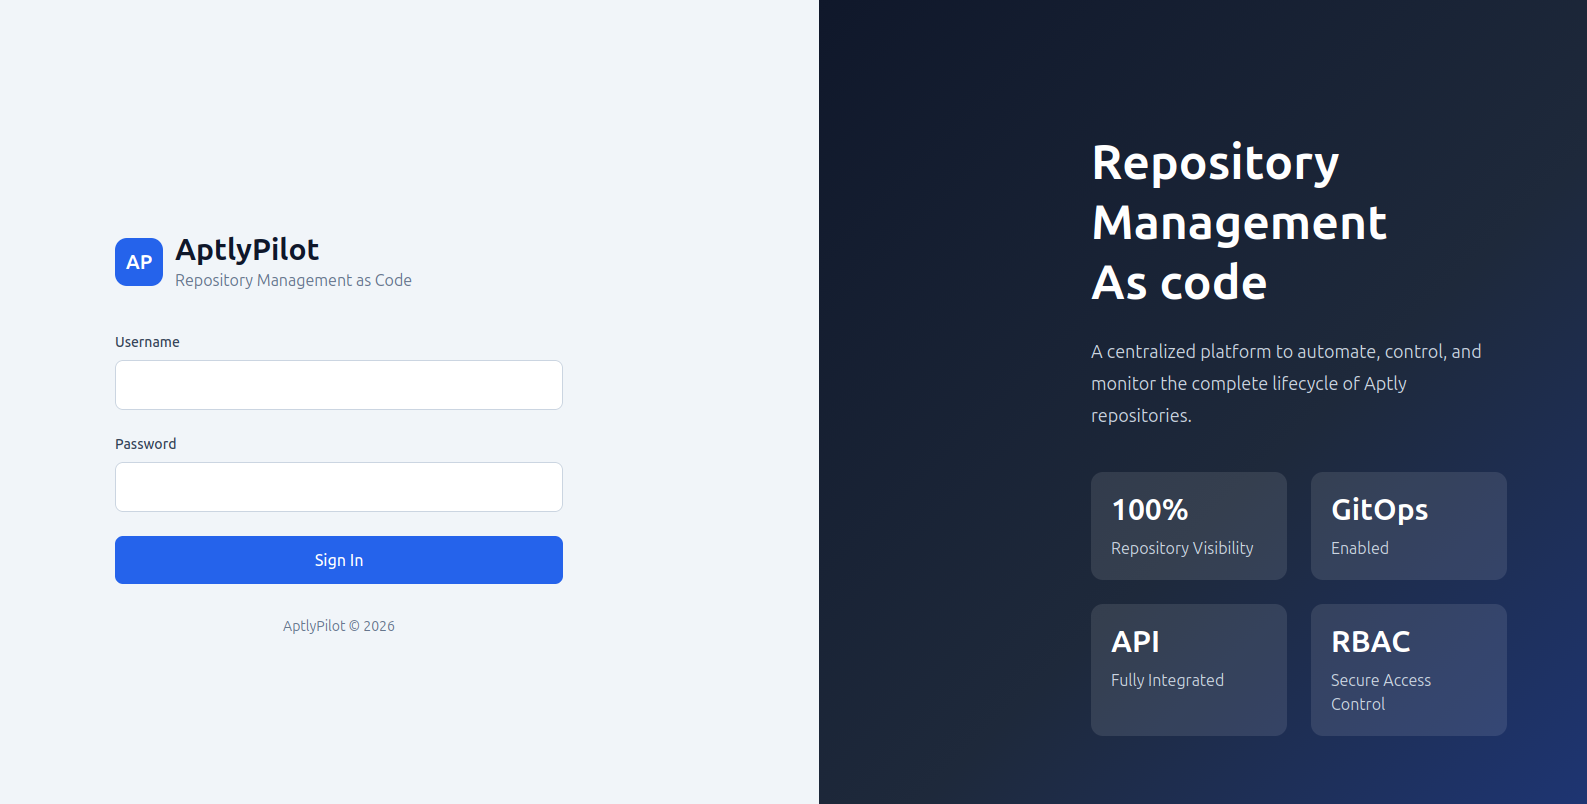
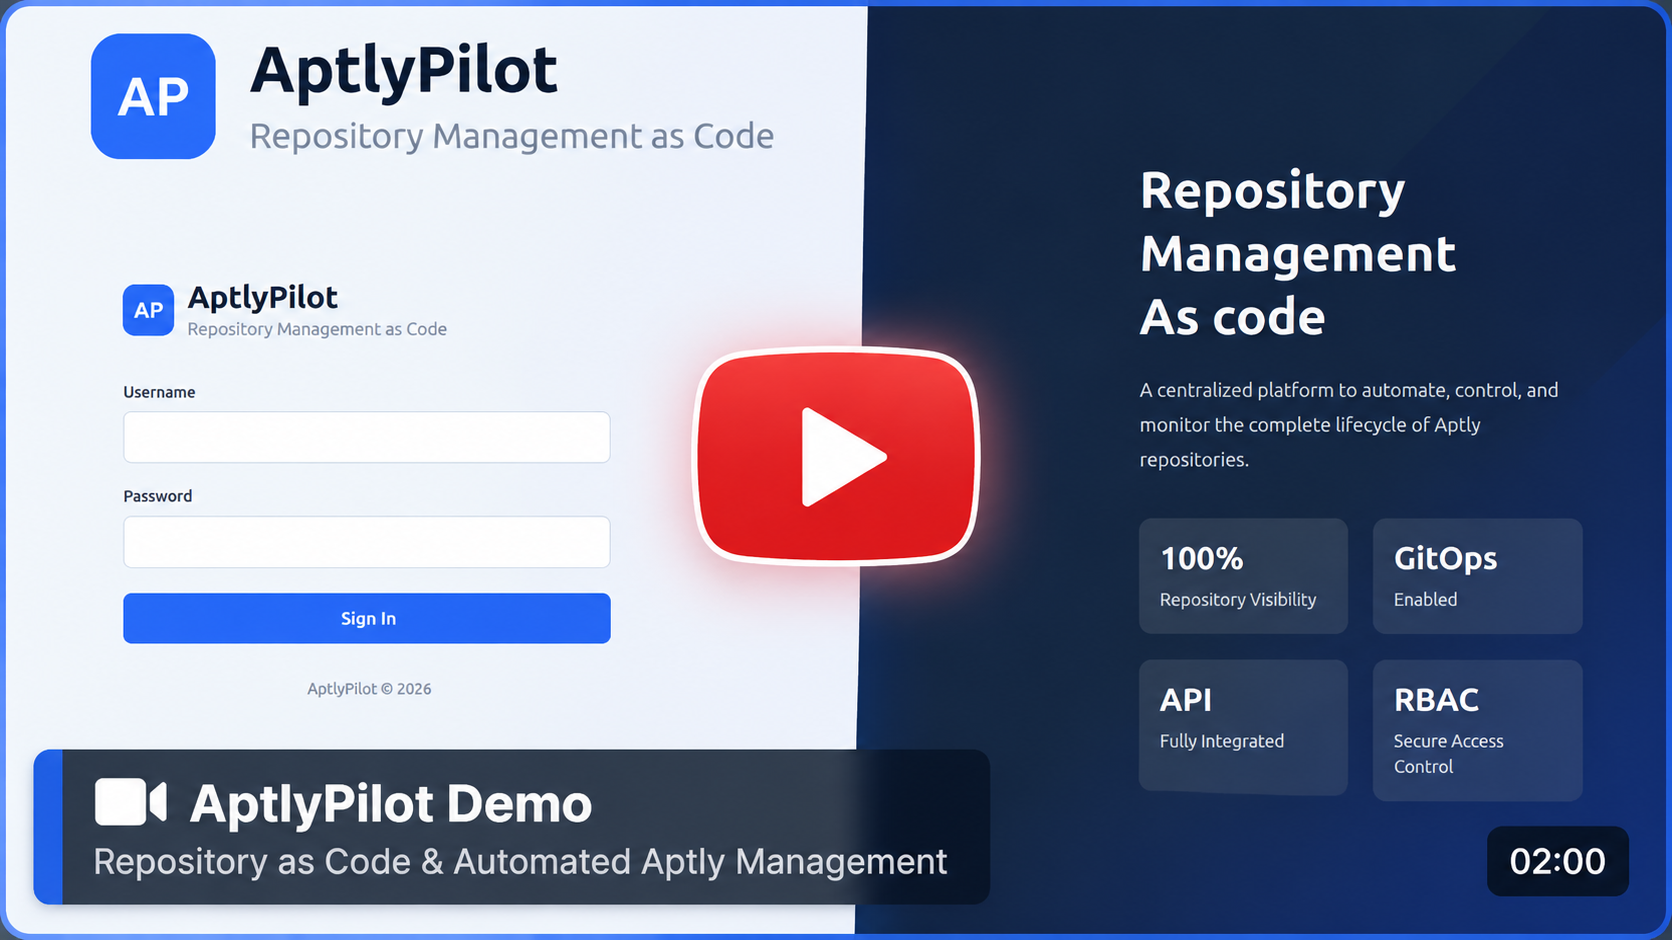
change demo thumbnail

diff --git a/README.md b/README.md
@@ -55,7 +55,7 @@ AptlyPilot turns Aptly from a powerful repository engine into an operational pla
 
 ## Demo
 
-[![AptlyPilot Demo](https://img.youtube.com/vi/rXjc-uKWyxg/hqdefault.jpg)](https://youtu.be/rXjc-uKWyxg)
+[![AptlyPilot Demo](docs/images/demo-thumbnail.png)](https://youtu.be/rXjc-uKWyxg)
 
 **2-minute overview of AptlyPilot**
 
